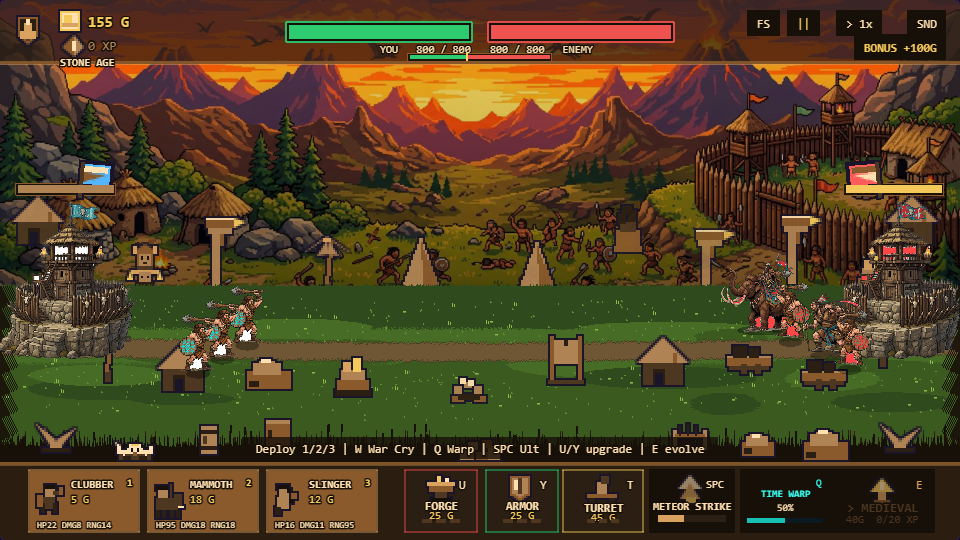
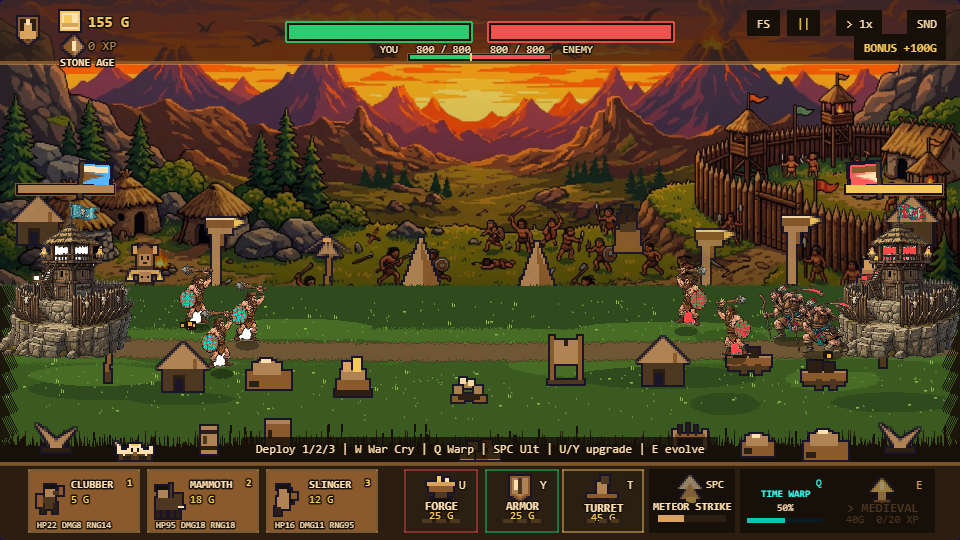
feat(render): dynamic procedural stride, 3-phase combat attacks, flinch reaction, and death tumble animations

Changed region(s): [[0.6875, 0.4741, 0.9062, 0.7111], [0.1875, 0.4741, 0.2812, 0.7111]]

diff --git a/src/render/GameScene.ts b/src/render/GameScene.ts
@@ -82,6 +82,7 @@ interface UnitGfx {
   flashUntilMs: number;
   currentVet: number;
   dying: boolean;
+  dir?: number;
   /** Screen-space knockback push from the last hit, in px. */
   knock: number;
   /** Ticks left of the current attack's wind-up, used to time the weapon FX. */
@@ -881,20 +882,33 @@ export class GameScene extends Phaser.Scene {
       if (!seen.has(id)) {
         if (!g.dying) {
           g.dying = true;
-          // Death: a red burst, a full 90 degree topple and a 250ms fade.
+          // Death: a red burst, a dramatic knock-back tumble, ground bounce, and 380ms dissolve.
           g.hpBar.setVisible(false);
           g.hpBarBg.setVisible(false);
           g.chev1.setVisible(false);
           g.chev2.setVisible(false);
           this.burst.emitParticleAt(g.container.x, g.container.y - 8, 16);
+          const dir = g.dir || 1;
           this.tweens.add({
             targets: g.container,
-            alpha: 0,
-            angle: 90,
-            y: g.container.y + 6,
-            duration: 250,
-            ease: 'Sine.easeIn',
-            onComplete: () => g.container.destroy(),
+            x: g.container.x - dir * 16,
+            y: g.container.y - 12,
+            angle: -dir * 75,
+            duration: 160,
+            ease: 'Cubic.easeOut',
+            onComplete: () => {
+              this.dust.emitParticleAt(g.container.x, g.container.y + 4, 6);
+              this.tweens.add({
+                targets: g.container,
+                alpha: 0,
+                y: g.container.y + 14,
+                scaleX: 0.8,
+                scaleY: 0.35,
+                duration: 220,
+                ease: 'Quad.easeIn',
+                onComplete: () => g.container.destroy(),
+              });
+            },
           });
         }
         this.unitGfx.delete(id);
@@ -994,64 +1008,118 @@ export class GameScene extends Phaser.Scene {
       if (Math.abs(g.knock) < 0.05) g.knock = 0;
     }
 
-    const walkPhase = (u.ageTicks + u.animSeed * 0.001) * 0.45;
-    if (u.state === 'walk') {
-      // Walk cycle: a 3px bob, a leg-tilt lean and a per-unit phase offset so a
-      // marching column never moves in lockstep.
-      const bob = Math.sin(walkPhase);
-      g.sprite.y = bob * 3 - 2;
-      g.sprite.x = 0;
-      g.sprite.angle = bob * 4 * u.dir;
-      g.sprite.setScale(g.baseScale, g.baseScale * (1 + bob * 0.035));
+    g.dir = u.dir;
+
+    if (this.sim.result !== 'playing') {
+      const isWinner = (this.sim.result === 'win' && u.side === 'player') || (this.sim.result === 'loss' && u.side === 'ai');
+      if (isWinner) {
+        // Joyous victory hopping & cheering
+        const cheerPhase = (this.time.now * 0.008 + u.animSeed * 0.01) % (Math.PI * 2);
+        const cheerHop = Math.max(0, Math.sin(cheerPhase));
+        g.sprite.y = -2 - cheerHop * 10;
+        g.sprite.x = 0;
+        g.sprite.angle = Math.sin(cheerPhase) * 10;
+        g.sprite.setScale(g.baseScale * (1 - cheerHop * 0.08), g.baseScale * (1 + cheerHop * 0.15));
+      } else {
+        // Dejected defeat slump
+        g.sprite.y = 4;
+        g.sprite.x = 0;
+        g.sprite.angle = u.dir * -24;
+        g.sprite.setScale(g.baseScale * 1.05, g.baseScale * 0.85);
+      }
+    } else if (u.state === 'walk') {
       if (u.reserve) {
-        // Reserves hold formation: steady, weapons down, no bounce.
-        g.sprite.y = -2 + bob * 0.6;
-        g.sprite.angle = bob * 1.2 * u.dir;
-        g.sprite.setScale(g.baseScale);
+        // Reserves hold formation: steady, weapons held, organic breathing
+        const breath = Math.sin(this.time.now * 0.0035 + u.animSeed);
+        g.sprite.y = -2 + breath * 1.2;
+        g.sprite.x = 0;
+        g.sprite.angle = breath * 1.5 * u.dir;
+        g.sprite.setScale(g.baseScale * (1 - breath * 0.02), g.baseScale * (1 + breath * 0.03));
+      } else {
+        // Natural bipedal/quadruped stride: vertical hop on push-off, squash on heel plant, pendulum leg lean
+        const walkPhase = (u.ageTicks + u.animSeed * 0.001) * 0.48;
+        const sinVal = Math.sin(walkPhase);
+        const strideHop = -Math.abs(sinVal) * 5;
+        const strideTilt = sinVal * 6.5 * u.dir;
+        const footContact = Math.abs(sinVal) < 0.25;
+
+        g.sprite.y = strideHop - 2;
+        g.sprite.x = u.dir * (footContact ? 1 : -0.5);
+        g.sprite.angle = strideTilt;
+
+        const stretch = footContact ? -0.06 : 0.05;
+        g.sprite.setScale(g.baseScale * (1 - stretch), g.baseScale * (1 + stretch));
+
+        if (footContact && u.ageTicks % 5 === 0) {
+          this.dust.emitParticleAt(u.x - u.dir * 6, this.unitGroundY(u), 1);
+        }
       }
     } else if (u.state === 'fight') {
-      g.sprite.y = -2;
       const atk = 1 - u.cooldown / Math.max(1, u.def.attackRate);
       if (u.def.role === 'ranged') {
-        // Ranged: weapon drawn forward, then a sharp recoil.
-        if (atk < 0.12) {
-          g.sprite.x = -u.dir * 4;
-          g.sprite.angle = u.dir * -7;
-          this.spawnAttackFx(u, 'muzzle');
-        } else if (atk < 0.4) {
-          g.sprite.x = u.dir * 3;
-          g.sprite.angle = 0;
+        // Ranged 3-phase: draw bow/aim rifle, release snap + muzzle flash, reload recovery
+        if (atk < 0.28) {
+          const p = atk / 0.28;
+          g.sprite.x = -u.dir * (2 + p * 4);
+          g.sprite.y = -2 - p * 2;
+          g.sprite.angle = -u.dir * (3 + p * 8);
+          g.sprite.setScale(g.baseScale * 0.94, g.baseScale * 1.05);
+        } else if (atk < 0.50) {
+          g.sprite.x = u.dir * 4;
+          g.sprite.y = -2;
+          g.sprite.angle = u.dir * 5;
+          g.sprite.setScale(g.baseScale * 1.08, g.baseScale * 0.94);
+          if (atk < 0.34) this.spawnAttackFx(u, 'muzzle');
         } else {
-          g.sprite.x = 0;
-          g.sprite.angle = 0;
+          const p = (atk - 0.50) / 0.50;
+          g.sprite.x = u.dir * (4 * (1 - p));
+          g.sprite.y = -2;
+          g.sprite.angle = u.dir * (5 * (1 - p));
+          g.sprite.setScale(g.baseScale);
         }
       } else if (u.def.role === 'tank') {
-        // Tank: a heavy shoulder-first shove with a ground shock on contact.
-        if (atk < 0.16) {
-          g.sprite.x = -u.dir * 3;
-          g.sprite.angle = u.dir * -3;
-        } else if (atk < 0.34) {
-          g.sprite.x = u.dir * 6;
-          g.sprite.angle = u.dir * 4;
-          this.spawnAttackFx(u, 'shock');
+        // Tank 3-phase: heavy rear-up, devastating ground slam / battering ram, recovery
+        if (atk < 0.25) {
+          const p = atk / 0.25;
+          g.sprite.x = -u.dir * (2 + p * 5);
+          g.sprite.y = -2 - p * 6;
+          g.sprite.angle = -u.dir * (2 + p * 6);
+          g.sprite.setScale(g.baseScale * 0.95, g.baseScale * 1.08);
+        } else if (atk < 0.52) {
+          g.sprite.x = u.dir * 9;
+          g.sprite.y = 1;
+          g.sprite.angle = u.dir * 6;
+          g.sprite.setScale(g.baseScale * 1.15, g.baseScale * 0.88);
+          if (atk < 0.32) this.spawnAttackFx(u, 'shock');
         } else {
-          g.sprite.x = 0;
-          g.sprite.angle = 0;
+          const p = (atk - 0.52) / 0.48;
+          g.sprite.x = u.dir * (9 * (1 - p));
+          g.sprite.y = -2 + (3 * (1 - p));
+          g.sprite.angle = u.dir * (6 * (1 - p));
+          g.sprite.setScale(g.baseScale * (1 + 0.05 * (1 - p)));
         }
-      } else if (atk < 0.14) {
-        // Melee wind-up.
-        g.sprite.x = -u.dir * 3;
-        g.sprite.angle = u.dir * -6;
-      } else if (atk < 0.3) {
-        // Melee slash: lunge forward with the swing arc.
-        g.sprite.x = u.dir * 6;
-        g.sprite.angle = u.dir * 8;
-        this.spawnAttackFx(u, 'slash');
       } else {
-        g.sprite.x = 0;
-        g.sprite.angle = 0;
+        // Melee 3-phase: weapon backswing anticipation, lunging slash, follow-through
+        if (atk < 0.25) {
+          const p = atk / 0.25;
+          g.sprite.x = -u.dir * (2 + p * 6);
+          g.sprite.y = -2 + p * 1;
+          g.sprite.angle = -u.dir * (4 + p * 12);
+          g.sprite.setScale(g.baseScale * 1.08, g.baseScale * 0.90);
+        } else if (atk < 0.50) {
+          g.sprite.x = u.dir * 11;
+          g.sprite.y = -4;
+          g.sprite.angle = u.dir * 14;
+          g.sprite.setScale(g.baseScale * 1.12, g.baseScale * 0.96);
+          if (atk < 0.32) this.spawnAttackFx(u, 'slash');
+        } else {
+          const p = (atk - 0.50) / 0.50;
+          g.sprite.x = u.dir * (11 * (1 - p));
+          g.sprite.y = -2;
+          g.sprite.angle = u.dir * (14 * (1 - p));
+          g.sprite.setScale(g.baseScale);
+        }
       }
-      g.sprite.setScale(g.baseScale);
     } else {
       g.sprite.y = -2; g.sprite.x = 0; g.sprite.angle = 0; g.sprite.setScale(g.baseScale);
     }
@@ -1065,6 +1133,10 @@ export class GameScene extends Phaser.Scene {
     if (this.time.now < g.flashUntilMs) {
       // Time-based flash: exactly 60ms at any render rate, then the art returns.
       g.sprite.setTint(0xffffff);
+      g.sprite.x += -u.dir * 4;
+      g.sprite.angle += -u.dir * 6;
+      g.sprite.scaleX *= 1.12;
+      g.sprite.scaleY *= 0.90;
     } else if (isEnemyStasis) {
       // Temporal stasis: icy cyan freeze
       g.sprite.setTint(0x5ce1e6);
